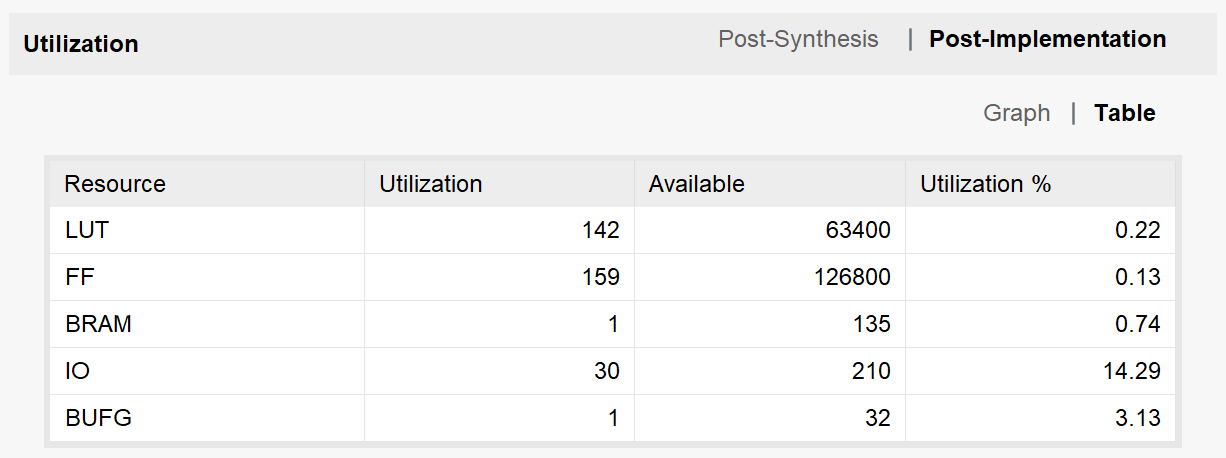
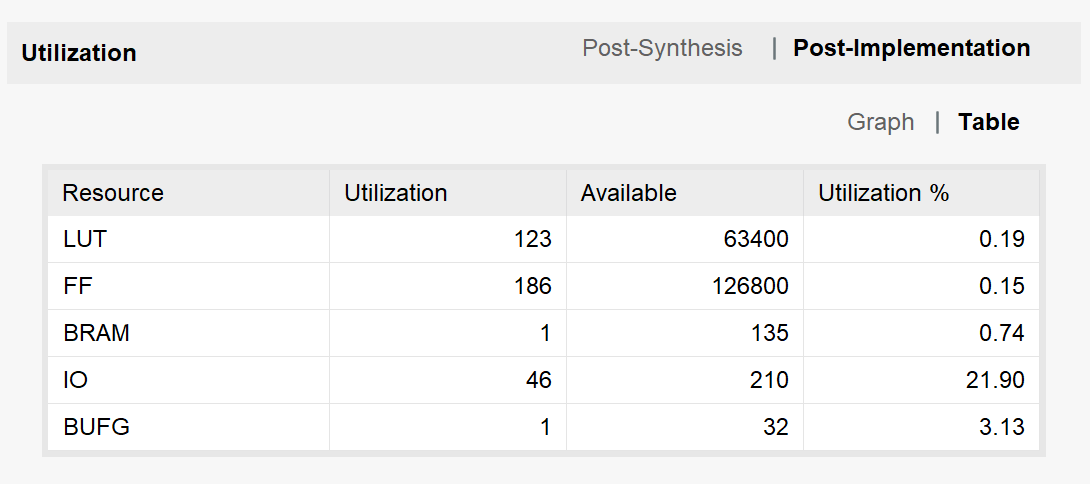
Task3-2：更新实验报告

diff --git a/Labs/Lab1/report.md b/Labs/Lab1/report.md
@@ -571,8 +571,8 @@ endmodule
 LUT、FF 等资源的使用情况如下图：
 ![冒泡排序 LUT、FF 等资源使用情况](attachments/pic_task3_util.png)
 
-经过测试，当时钟周期为 $7.1\,\text{ns}$ 时，WNS 达到 $0.045\,\text{ns}$，故电路正常工作的最高时钟频率约为 $141.7\,\text{MHz}$。
-![冒泡排序在时钟周期 7.1ns 下的时序情况](attachments/pic_task3_wns.png)
+经过测试，当时钟周期为 $7.123\,\text{ns}$ 时，WNS 达到 $0.076\,\text{ns}$，故电路正常工作的最高时钟频率约为 $141.90\,\text{MHz}$。
+![冒泡排序在时钟周期 7.123ns 下的时序情况](attachments/pic_task3_wns.png)
 
 ## Task X
 ### Task X-2
@@ -1051,11 +1051,18 @@ endmodule
 24. 在 `DONE` 状态时，状态机将 `done` 信号置为有效，并将 BRAM 端口 A 再次开放给外部拨码开关以便查看排序后的数据，随后跳转回 `IDLE` 状态，等待下一次排序请求。
 
 #### 资源使用、性能比较
+##### LUT、FF 等资源使用情况
 快速排序实现的 LUT、FF 等资源使用情况如下：
 ![快速排序 LUT、FF 等资源使用情况](attachments/pic_taskx_util.png)
 
+##### 最高时钟频率
 经过测试，当时钟周期为 $10.1\,\text{ns}$ 时，WNS 达到 $0.092\,\text{ns}$，故电路正常工作的最高时钟频率约为 $99.92\,\text{MHz}$。
 ![快速排序在时钟周期 10.1ns 下的时序情况](attachments/pic_taskx_wns.png)
+
+##### 排序速度
+对 `data.coe` 中的数据进行降序冒泡排序时，共花费 `0x243327=2372391` 个时钟周期；进行升序冒泡排序时，共花费 `0x23BAD9=2341593` 个时钟周期。
+
+---
 
 从硬件实现角度分析，快速排序相比冒泡排序需要更多的电路资源，主要体现在以下几个方面：
 
